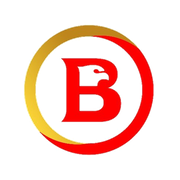
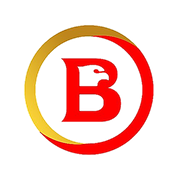
Sonido de bienvenida que sí suena: en la entrada sale «🔊 Toca para el sonido» y al tocar suena la presentación (el navegador no deja sonar sin un toque); en iPhone se pide sesión de audio «playback» (suena aunque esté el botón de silencio) y se desbloquean el audio y la voz dentro del toque de «Entr
Claude-Session: https://claude.ai/code/session_01YQAV7XuLMSRJ93UbsfrYGD

diff --git a/src/components/entrada/entrada.css b/src/components/entrada/entrada.css
@@ -12,19 +12,19 @@ html[data-sin-entrada] .ent { display: none }
 
 .ent-glow { position: absolute; left: 50%; top: 44%; width: 560px; height: 560px; margin: -280px; border-radius: 50%;
   background: radial-gradient(circle, rgba(245, 184, 0, .28), rgba(0, 0, 0, 0) 62%); opacity: 0; transform: scale(.6);
-  animation: ent-glow 1.4s cubic-bezier(.16, 1, .3, 1) .5s forwards }
+  animation: ent-glow 1.8s cubic-bezier(.16, 1, .3, 1) .7s forwards }
 @keyframes ent-glow { to { opacity: 1; transform: scale(1) } }
 
 .ent-onda { position: absolute; left: 50%; top: 44%; width: 200px; height: 200px; margin: -100px; border-radius: 50%;
-  border: 3px solid #E0A92E; opacity: 0; animation: ent-onda .9s cubic-bezier(.16, 1, .3, 1) .78s forwards }
-.ent-onda.d { border-color: #C8102E; border-width: 2px; animation-delay: .9s }
+  border: 3px solid #E0A92E; opacity: 0; animation: ent-onda 1.1s cubic-bezier(.16, 1, .3, 1) 1.02s forwards }
+.ent-onda.d { border-color: #C8102E; border-width: 2px; animation-delay: 1.16s }
 @keyframes ent-onda { 0% { opacity: .9; transform: scale(.8) } 100% { opacity: 0; transform: scale(2.4) } }
 
 .ent-arco { position: absolute; left: 50%; top: 44%; width: 340px; height: 340px; margin: -170px; overflow: visible;
-  animation: ent-gira 2.4s cubic-bezier(.3, 0, .2, 1) forwards }
+  animation: ent-gira 3.6s cubic-bezier(.3, 0, .2, 1) forwards }
 .ent-arco.b { width: 300px; height: 300px; margin: -150px; animation-name: ent-gira-b }
-.ent-arco circle { stroke-dasharray: 880; stroke-dashoffset: 880; animation: ent-traza 1s cubic-bezier(.65, 0, .35, 1) .05s forwards, ent-desv .5s ease-out 1.05s forwards }
-.ent-arco.b circle { stroke-dasharray: 780; stroke-dashoffset: 780; animation-delay: .3s, 1.15s }
+.ent-arco circle { stroke-dasharray: 880; stroke-dashoffset: 880; animation: ent-traza 1.3s cubic-bezier(.65, 0, .35, 1) .1s forwards, ent-desv .7s ease-out 1.6s forwards }
+.ent-arco.b circle { stroke-dasharray: 780; stroke-dashoffset: 780; animation-delay: .4s, 1.75s }
 @keyframes ent-traza { to { stroke-dashoffset: 0 } }
 @keyframes ent-desv { to { opacity: 0 } }
 @keyframes ent-gira { to { transform: rotate(200deg) } }
@@ -33,26 +33,30 @@ html[data-sin-entrada] .ent { display: none }
 .ent-chispas { position: absolute; left: 50%; top: 44% }
 .ent-chispas i { position: absolute; width: 8px; height: 8px; margin: -4px; border-radius: 50%; background: #E0A92E;
   box-shadow: 0 0 10px 2px rgba(245, 184, 0, .6); opacity: 0; transform: rotate(var(--a)) translateY(-80px);
-  animation: ent-chispa .8s cubic-bezier(.16, 1, .3, 1) forwards }
+  animation: ent-chispa 1s cubic-bezier(.16, 1, .3, 1) forwards }
 @keyframes ent-chispa { 0% { opacity: 0; transform: rotate(var(--a)) translateY(-80px) scale(1) } 20% { opacity: 1 }
   100% { opacity: 0; transform: rotate(var(--a)) translateY(calc(-80px - var(--d))) scale(.3) } }
 
 .ent-cd { position: absolute; left: 0; right: 0; top: calc(44% + 150px); text-align: center; font: 800 13px "Archivo", system-ui, sans-serif;
   letter-spacing: .7em; padding-left: .7em; color: #1a1a1a; opacity: 0; transform: translateY(8px);
-  animation: ent-en .7s cubic-bezier(.16, 1, .3, 1) 1.5s forwards, ent-desv .3s 2.2s forwards }
+  animation: ent-en .8s cubic-bezier(.16, 1, .3, 1) 1.9s forwards, ent-desv .4s 3.5s forwards }
 @keyframes ent-en { to { opacity: 1; transform: none } }
 
 .ent-barrido { position: absolute; inset: -200px; pointer-events: none }
 .ent-barrido i { position: absolute; top: 0; bottom: 0; width: 180%; left: -180%; transform: skewX(-20deg);
-  animation: ent-barre .7s cubic-bezier(.77, 0, .18, 1) forwards }
+  animation: ent-barre .95s cubic-bezier(.77, 0, .18, 1) forwards }
 .ent-barrido i.r { background: linear-gradient(90deg, #C8102E, #E4002B) }
-.ent-barrido i.o { background: linear-gradient(90deg, #B8862B, #F1D27A); animation-delay: .09s }
-.ent-barrido i.w { background: #fff; animation-delay: .18s }
+.ent-barrido i.o { background: linear-gradient(90deg, #B8862B, #F1D27A); animation-delay: .12s }
+.ent-barrido i.w { background: #fff; animation-delay: .24s }
 @keyframes ent-barre { to { left: 120% } }
+
+.ent-toca { position: absolute; left: 0; right: 0; margin: 0 auto; width: max-content; bottom: calc(46px + env(safe-area-inset-bottom)); white-space: nowrap;
+  padding: 10px 16px; border: 1px solid #e6e6e6; background: rgba(255, 255, 255, .9); color: #333; font: 700 13px "IBM Plex Sans", system-ui, sans-serif;
+  opacity: 0; animation: ent-en .5s ease-out .6s forwards }
 
 /* LA B: entra girando en 3D, rebota y, al final, vuela a su sitio. */
 .ent-logo { position: absolute; left: 50%; top: 44%; width: 184px; height: 184px; margin: -92px; opacity: 0;
-  animation: ent-pop .9s cubic-bezier(.2, 1.4, .4, 1) .45s forwards; will-change: transform, opacity }
+  animation: ent-pop 1.15s cubic-bezier(.2, 1.4, .4, 1) .6s forwards, ent-respira 2.2s ease-in-out 1.75s 1 forwards; will-change: transform, opacity }
 .ent-logo img { width: 100%; height: 100%; display: block }
 @keyframes ent-pop { 0% { opacity: 0; filter: blur(14px); transform: perspective(600px) scale(.35) rotateY(-110deg) }
   60% { opacity: 1; filter: blur(0); transform: perspective(600px) scale(1.1) rotateY(12deg) }
@@ -61,10 +65,12 @@ html[data-sin-entrada] .ent { display: none }
   transform: translate(var(--tx), var(--ty)) scale(var(--ts)) }
 .ent-logo.se-va { opacity: 1; animation: none; transition: opacity .5s, transform .6s; opacity: 0; transform: scale(1.4) }
 .ent-brillo { position: absolute; inset: 0; pointer-events: none;
-  -webkit-mask: url(/marca/logo-b.png) center / 100% 100% no-repeat; mask: url(/marca/logo-b.png) center / 100% 100% no-repeat;
+  -webkit-mask: url(/marca/logo-b-hd.png) center / 100% 100% no-repeat; mask: url(/marca/logo-b-hd.png) center / 100% 100% no-repeat;
   background: linear-gradient(105deg, rgba(255, 255, 255, 0) 35%, rgba(255, 255, 255, .95) 50%, rgba(255, 255, 255, 0) 65%) no-repeat;
-  background-size: 300% 100%; background-position: 120% 0; animation: ent-brilla .9s cubic-bezier(.4, 0, .2, 1) 1.2s forwards }
-@keyframes ent-brilla { to { background-position: -20% 0 } }
+  background-size: 300% 100%; background-position: 120% 0; animation: ent-brilla 1s cubic-bezier(.4, 0, .2, 1) 1.6s forwards, ent-brilla 1s cubic-bezier(.4, 0, .2, 1) 2.9s forwards }
+@keyframes ent-brilla { from { background-position: 120% 0 } to { background-position: -20% 0 } }
+/* Mientras se queda en el centro, la B «respira» apenas. */
+@keyframes ent-respira { 0%, 100% { opacity: 1; transform: perspective(600px) scale(1) } 50% { opacity: 1; transform: perspective(600px) scale(1.035) } }
 
 /* Sin @property (navegadores viejos) el círculo no se anima, pero la capa igual se desvanece (opacity en ent-abre). */
 @media (prefers-reduced-motion: reduce) {

diff --git a/src/components/entrada/Entrada.tsx b/src/components/entrada/Entrada.tsx
@@ -1,23 +1,25 @@
 "use client";
 
 import { useEffect, useRef, useState } from "react";
+import { prepararBienvenida, presentacion } from "@/lib/bienvenida";
 import "./entrada.css";
 
 /**
  * LA ENTRADA DE LA APP — la B de Bavaria con movimiento, una vez por sesión.
  *
- * Coreografía (≈3 s): barrido diagonal rojo, dorado y blanco · la B entra girando en 3D y rebota · dos ondas
+ * Coreografía (≈4,5 s): barrido diagonal rojo, dorado y blanco · la B entra girando en 3D y rebota · dos ondas
  * (dorada y roja) cuando aterriza · dos arcos que se trazan en sentidos contrarios · chispas doradas · un brillo
  * que recorre la B · «C D 38» pequeño · y al final la pantalla de debajo se abre en un círculo desde el centro
  * mientras la B vuela a su sitio (el logo de la entrada o el de la barra de arriba, el que esté a la vista).
  *
  * VA EN EL HTML DEL SERVIDOR para que se pinte antes que la página (sin parpadeo). Si en esta sesión ya salió,
  * el script del <head> marca <html data-sin-entrada> y el CSS la esconde antes del primer cuadro.
- * Tocar la pantalla la salta. Con «reducir movimiento» del sistema solo hace un fundido corto.
- * No suena: el navegador no deja reproducir audio sin un toque; el sonido de bienvenida va al darle «Entrar».
+ * EL SONIDO. Ningún navegador deja sonar una página que se acaba de abrir sin que la persona toque algo. Por eso
+ * la entrada muestra «🔊 Toca para el sonido»: al tocar, suena la presentación (tono Oro y la voz). Y al darle
+ * «Entrar» en el inicio de sesión suena siempre (ver lib/bienvenida.ts). Con «reducir movimiento» solo hace un fundido.
  */
 export const CLAVE_ENTRADA = "cd38-entrada";
-const VUELA_EN = 2250, TERMINA_EN = 3100;
+const VUELA_EN = 3700, TERMINA_EN = 4600;
 
 export function Entrada() {
   const [viva, setViva] = useState(true);
@@ -51,22 +53,31 @@ export function Entrada() {
     return () => { window.clearTimeout(t1); window.clearTimeout(t2) };
   }, []);
 
+  const [sono, setSono] = useState(false);
   if (!viva) return null;
-  const saltar = () => setViva(false);
+  /* Tocar no la salta: hace que suene (una vez). */
+  const sonar = () => {
+    if (sono) return;
+    setSono(true);
+    prepararBienvenida();
+    void presentacion();
+    try { sessionStorage.setItem("cd38-bienvenida-sono", "1") } catch { /* sigue */ }
+  };
   return (
-    <div className="ent" aria-hidden onClick={saltar}>
+    <div className="ent" aria-hidden onPointerDown={sonar}>
       <div className="ent-capa" ref={capa}>
         <div className="ent-glow" />
         <div className="ent-onda" /><div className="ent-onda d" />
         <svg className="ent-arco a" viewBox="-150 -150 300 300"><defs><linearGradient id="ent-g" x1="0" y1="0" x2="1" y2="1"><stop offset="0" stopColor="#FFE7A0" /><stop offset=".5" stopColor="#E0A92E" /><stop offset="1" stopColor="#C8102E" /></linearGradient></defs><circle r="130" fill="none" stroke="url(#ent-g)" strokeWidth="3" strokeLinecap="round" transform="rotate(-90)" /></svg>
         <svg className="ent-arco b" viewBox="-150 -150 300 300"><circle r="118" fill="none" stroke="#C8102E" strokeWidth="2.5" strokeLinecap="round" transform="rotate(90)" /></svg>
-        <div className="ent-chispas">{Array.from({ length: 16 }, (_, k) => <i key={k} style={{ ["--a" as string]: `${k * 22.5}deg`, ["--d" as string]: `${90 + (k % 3) * 22}px`, animationDelay: `${0.85 + (k % 4) * 0.02}s` }} />)}</div>
+        <div className="ent-chispas">{Array.from({ length: 16 }, (_, k) => <i key={k} style={{ ["--a" as string]: `${k * 22.5}deg`, ["--d" as string]: `${90 + (k % 3) * 22}px`, animationDelay: `${1.1 + (k % 4) * 0.02}s` }} />)}</div>
         <div className="ent-cd">CD38</div>
+        {!sono && <div className="ent-toca">🔊 Toca para el sonido</div>}
         <div className="ent-barrido"><i className="r" /><i className="o" /><i className="w" /></div>
       </div>
       <div className="ent-logo" ref={logo}>
         {/* eslint-disable-next-line @next/next/no-img-element */}
-        <img src="/marca/logo-b.png" alt="" />
+        <img src="/marca/logo-b-hd.png" alt="" />
         <div className="ent-brillo" />
       </div>
     </div>

diff --git a/src/lib/bienvenida.ts b/src/lib/bienvenida.ts
@@ -22,14 +22,25 @@ let ctx: AudioContext | null = null;
 let eco: ConvolverNode | null = null;
 
 export function prepararBienvenida() {
+  /* iPhone: con el botón de silencio puesto, el audio de una página web no suena… salvo que la página diga que
+     reproduce medios («playback»). Safari 16.4+ lo permite con navigator.audioSession. */
+  try { (navigator as unknown as { audioSession?: { type: string } }).audioSession!.type = "playback" } catch { /* otro navegador */ }
   try {
     const AC = window.AudioContext ?? (window as unknown as { webkitAudioContext?: typeof AudioContext }).webkitAudioContext;
-    if (AC) { ctx ??= new AC(); void ctx.resume() }
+    if (AC) {
+      ctx ??= new AC();
+      void ctx.resume();
+      /* Un sonido mudo dentro del toque: en iPhone es lo que deja «desbloqueado» el audio para después. */
+      const b = ctx.createBuffer(1, 1, 22050), src = ctx.createBufferSource();
+      src.buffer = b; src.connect(ctx.destination); src.start(0);
+    }
   } catch { /* sin audio, sigue */ }
   try {
     if ("speechSynthesis" in window) {
-      const u = new SpeechSynthesisUtterance(" ");
-      u.volume = 0;
+      /* La voz también se «desbloquea» hablando dentro del toque (en silencio). Un espacio solo, iPhone lo ignora. */
+      const u = new SpeechSynthesisUtterance("listo");
+      u.volume = 0; u.rate = 2;
+      window.speechSynthesis.cancel();
       window.speechSynthesis.speak(u);
     }
   } catch { /* sin voz, sigue */ }
